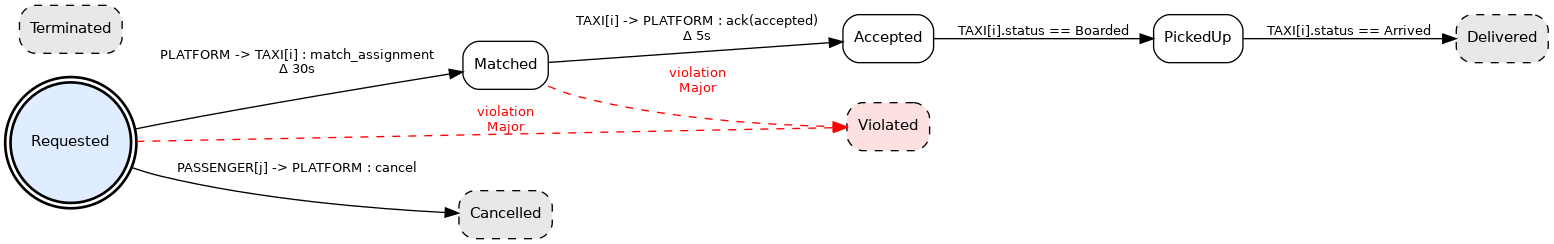
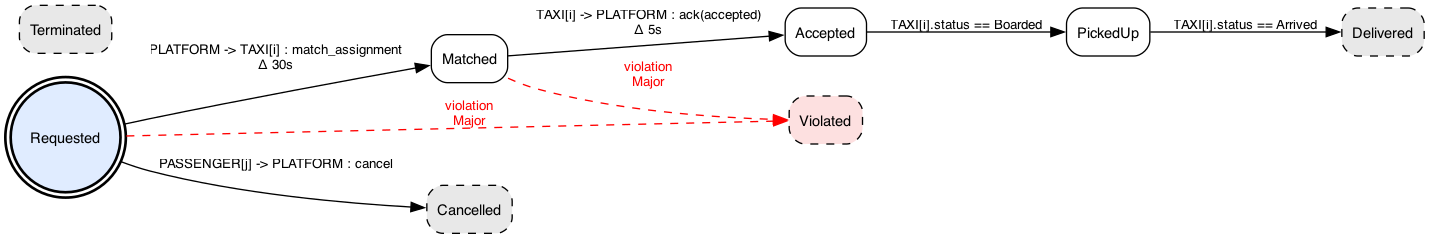
Hands-on audit: cross-references, Course B setup, index, Courses C and D (#59)
* Hands-on audit: cross-references, Course B setup, index, Courses C and D

* Course B: lifecycle figure regenerated with CADL Explorer v0.5.6 (same as the exercise repository)

---------

diff --git a/i18n/ja/docusaurus-plugin-content-docs/current/handson/mobility-sos-tutorial.md b/i18n/ja/docusaurus-plugin-content-docs/current/handson/mobility-sos-tutorial.md
@@ -75,7 +75,10 @@ pip install eclipse-sumo
 pip install -e ~/program/cadl_repo
 cadl --version
 
-# cadl-explorer：テキストブック（コース A）の第 6 章と同じ
+# cadl-explorer（テキストブック（コース A）の第 6 章でクローンしたもの）：
+# §4 で `streamlit` をこのシェルから起動できるよう、この venv にも requirements を入れる。
+# 第 6 章と同じく、上で入れた cadl はそのまま使われる。
+pip install -r ~/program/cadl-explorer/requirements.txt
 ```
 
 > `pip install -e ~/program/cadl_repo` の途中で `z3-solver` のビルドに失敗する場合は、
@@ -207,7 +210,7 @@ streamlit run app.py
 図の中で `Terminated` はどこともつながっていません。契約は `Terminated` を終端状態として宣言していますが、そこへ入る遷移を書いていないためです。`mobility_sos.cadl` を **Designer** ページで開くと、同じことが Lifecycle の警告（`State 'Terminated' cannot be reached from the initial state 'Requested'`）として表示されます。`cadl check` はこの状態でも通ります。
 
 :::info[このパターンは何度も出てきます]
-このコースでは「CADL を編集 → `cadl sim-ir` で IR を再生成 → cadl-explorer をリロード」という 3 ステップを、節目（構造を読んだ後、契約を読んだ後、コード生成後、シミュレーション後、契約改訂後）でそのつど繰り返します。
+このコースでは「CADL を編集 → `cadl sim-ir` で IR を再生成 → IR を cadl-explorer にアップロードし直す」という 3 ステップ（ブラウザでページを再読み込みすると、アップロードしたファイルは消える）を、節目（構造を読んだ後、契約を読んだ後、コード生成後、シミュレーション後、契約改訂後）でそのつど繰り返します。
 コードと図が連動して動く感触をつかむのが、このコースの主目的です。
 :::
 
@@ -251,12 +254,12 @@ python scripts/cadl_to_sumo.py
 生成されるもの：
 
 - `sumo/config/midtown.cadl.sumocfg` — `step-length` が CADL の `time_step_ms` から、
-  `end` は「`sumo/routes/midtown.rou.xml` の最後の `depart` ＋（1800 秒と `ride_time` guarantee の大きいほう）＋ 60 秒」で決まる（サンプルデータでは 3060 + 1800 + 60 = 4920）。経路ファイルがまだない場合は 3600 秒になる。§6 では `generate_sumo_routes.py` のあと、`run_sumo.py` の前にこのスクリプトを再実行するので、4920 秒になる。§8 のように `ride_time` を厳しくしても `end` は短くならない
+  `end` は「`sumo/routes/midtown.rou.xml` の最後の `depart` ＋（1800 秒と `ride_time` guarantee の大きいほう）＋ 60 秒」で決まる（サンプルデータでは 3060 + 1800 + 60 = 4920）。リポジトリには `sumo/routes/midtown.rou.xml` が同梱されているので、この最初の実行ですでに 4920 秒になる（経路ファイルがなければ 3600 秒）。§6 では `generate_sumo_routes.py` のあと、`run_sumo.py` の前にこのスクリプトを再実行するので、`end` は生成した経路に合わせて決まる。§8 のように `ride_time` を厳しくしても `end` は短くならない
 - `sumo/cadl_constraints.json` — `analyze_results.py` が読む契約条件（guarantees / deadlines / monitors）
 
 :::tip[🔍 可視化チェックポイント 2 — コード生成しても CADL ソースは変わらない]
 `cadl_to_sumo.py` は IR を読んで SUMO の設定ファイルを書き出すだけで、`cadl/mobility_sos.cadl` の `lifecycle:` / `monitors:` には触れません（§3 のときと 1 バイトも変わりません）。
-ここで cadl-explorer をリロードしても、§4 と同じ図が出るだけのはずです。
+ここで `cadl/mobility_sos.ir.json` を cadl-explorer にアップロードし直しても、§4 と同じ図が出るだけのはずです。
 
 「コード生成は仕様を書き換えない」というこの性質があるおかげで、CADL を仕様の唯一の出典として扱えます。
 :::
@@ -353,7 +356,7 @@ python scripts/cadl_to_sumo.py
 python scripts/analyze_results.py | grep -E "OK|VIOLATED"
 ```
 
-期待される結果（SUMO 1.28.0 では違反 12 件。違反件数と該当タクシーの並びは、乱数シードや SUMO のバージョンによって変わります。着目すべきは `waiting_time` が `OK` で `ride_time` が `VIOLATED` になる、という**内訳の形**です）：
+期待される結果（SUMO 1.28.0 では違反 12 件。実行は決定的なので、同じ SUMO の版ならそのまま再現します。別の版では、違反件数と該当タクシーの並びが変わることがあります。着目すべきは `waiting_time` が `OK` で `ride_time` が `VIOLATED` になる、という**内訳の形**です）：
 
 ```text
       [OK          ] waiting_time <= 300s  (tripinfo.waitingTime)
@@ -364,7 +367,7 @@ OK: 分析完了。
 最後の行はスクリプトの終了メッセージです。`OK` で始まるので `grep` のパターンに一致します。
 
 :::tip[🔍 可視化チェックポイント 4 — 改訂後（このコースの山場）]
-`analyze_results.py` を実行する前に、cadl-explorer をリロードしてみてください。
+作り直した `cadl/mobility_sos.ir.json`（上のコマンドで書き出し済み）を、cadl-explorer にアップロードし直してみてください。
 
 今回書き換えたのは guarantee の値（`ride_time <= 1800s` から `100s`）だけで、`lifecycle:` や `monitors:` には触れていません。
 そのため、状態機械の図そのものは §4 と同じです（状態数も遷移数も `Δ` ラベルも変化なし）。

diff --git a/docs/textbook/08-unity.md b/docs/textbook/08-unity.md
@@ -25,9 +25,10 @@ nats-server -p 4222
 ```
 
 ```
-[INFO] Starting nats-server
-[INFO] Server is ready
-[INFO] Listening for client connections on 0.0.0.0:4222
+[…] [INF] Starting nats-server
+…
+[…] [INF] Listening for client connections on 0.0.0.0:4222
+[…] [INF] Server is ready
 ```
 
 ```bash
@@ -133,7 +134,7 @@ In the Console, lines like the following should appear continuously. You can fil
 
 ![Unity in Play mode: robots on the road network in the Scene view, and the Console filtered on DELIVERY_SLA showing lifecycle events](/img/handson/unity-play-console.jpg)
 
-The screenshot was taken about 22 seconds into Play, with `DELIVERY_SLA` typed in the Console search box and the Scene tab selected: robot-2-1 (battery 15) has just been moved to `Violated` by `battery_guard`, and robot-1-1 has been assigned five seconds later. During Play the host is listed as `ContractRuntimeHost` under `DontDestroyOnLoad`; in this capture the scene part of the Hierarchy still shows the object of step 6.3 as "New Game Object", although the Inspector shows its name.
+The screenshot was taken about 22 seconds into Play, with `DELIVERY_SLA` typed in the Console search box and the Scene tab selected: robot-2-1 (battery 15) has just been moved to `Violated` by `battery_guard`, and robot-1-1 has been assigned five seconds later. During Play the host is listed as `ContractRuntimeHost` under `DontDestroyOnLoad`; in this capture the scene part of the Hierarchy still shows the object added in "Add ContractRuntimeHost" (Section 8.2) as "New Game Object", although the Inspector shows its name.
 
 A closer look at the road during the same run, with the five robots on their way:
 
@@ -154,7 +155,7 @@ The Game view during Play: the camera follows robot `m1`, and the small picture 
 [lifecycle DELIVERY_SLA/robot-1-1 Delivering -> Completed (complete, event) @ 46361ms]
 ```
 
-Each robot's contract moves only on that robot's own events. The arbitrator hands out one delivery about every 5 seconds, so the robots reach `Assigned` one after another (in this run at about 5, 11, 16, 22 and 27 seconds). Note the 700 to 800 ms between `assign` and `accept` for `robot-1-1`: that is the `Assigned Dwell Ms` set in 6.4. `robot-2-1`, with battery 15, is caught by `battery_guard` in the same frame as its `assign`.
+Each robot's contract moves only on that robot's own events. The arbitrator hands out one delivery about every 5 seconds, so the robots reach `Assigned` one after another (in this run at about 5, 11, 16, 22 and 27 seconds). Note the 700 to 800 ms between `assign` and `accept` for `robot-1-1`: that is the `Assigned Dwell Ms` set in "Add PilotContractBridge to every robot" (Section 8.2). `robot-2-1`, with battery 15, is caught by `battery_guard` in the same frame as its `assign`.
 
 ## 8.4 The parts in the scene
 
@@ -219,7 +220,7 @@ Confirm all of these:
 | Console silent — no contract events at all | NATS or arbitrator not running. Check that Terminal 1 shows `Server is ready` and Terminal 2 shows the `[Config] … taskArbitration.enabled=true …` line. |
 | No delivery is ever assigned (no `WON delivery` in the Console) | The arbitrator probably did not load its config. Restart it passing the **absolute path** of `cadl_config.json` via `-config`, and confirm `taskArbitration.enabled=true` in its startup output (the shipped config already has it `true`). |
 | Compile error in Console after Play: `The name 'CADL.SosDsl.Demo.ContractRuntimeHost' could not be found` | Generated/Runtime files not picked up. Re-run the e2e script. Or in Unity, `Assets ▸ Reimport All`. |
-| **All robots stay `Proposed`, then get `Violated` by `deadline_watch` (~5 min)** | The arbitrator carried over state from the previous Play (no deliveries offered). Stop Play, **restart the arbitrator** (and NATS if unsure), then replay. It must be restarted **before every Play** (see the note in 6.1). |
+| **All robots stay `Proposed`, then get `Violated` by `deadline_watch` (~5 min)** | The arbitrator carried over state from the previous Play (no deliveries offered). Stop Play, **restart the arbitrator** (and NATS if unsure), then replay. It must be restarted **before every Play** (see the note "Restart the arbitrator before every Play" in Section 8.2). |
 | **Compile error `... already contains a definition for ...` with paths under `Generated/Generated/…` or `Runtime/Runtime/…`** | The generated tree was copied nested (duplicated). Delete `Assets/Scripts/SoSDsl/Generated/Generated` and `Runtime/Runtime` (the current e2e script self-heals this). |
 | **The battery=15 robot also completes instead of violating** | The bridge fired `assign` and `accept` in the same frame, so the contract never dwells in `Assigned` long enough for the periodic `battery_guard` to sample. The shipped `PilotContractBridge` fixes this via `assignedDwellMs` (default 700 ms); if you replace the bridge, keep it above the monitor period. |
 

diff --git a/docs/handson/mobility-sos-tutorial.md b/docs/handson/mobility-sos-tutorial.md
@@ -84,7 +84,10 @@ pip install eclipse-sumo
 pip install -e ~/program/cadl_repo
 cadl --version
 
-# cadl-explorer: same as Chapter 6 of the Textbook (Course A)
+# cadl-explorer (cloned in Chapter 6 of the Textbook, Course A): install its
+# requirements into this venv too, so that `streamlit` runs in this shell (§4).
+# It keeps the cadl installed above, as in Chapter 6.
+pip install -r ~/program/cadl-explorer/requirements.txt
 ```
 
 > If `z3-solver` fails to build during `pip install -e ~/program/cadl_repo`, fall back
@@ -224,7 +227,7 @@ You should see something like:
 `Terminated` stands alone in the diagram: the contract declares it as a terminal state, but no transition leads to it. If you open `mobility_sos.cadl` on the **Designer** page, the same fact is reported as a Lifecycle warning (`State 'Terminated' cannot be reached from the initial state 'Requested'`). `cadl check` passes regardless.
 
 :::info[This pattern repeats throughout the tutorial]
-You will run **edit CADL → `cadl sim-ir` → reload cadl-explorer** at every milestone:
+You will run **edit CADL → `cadl sim-ir` → upload the IR to cadl-explorer again** at every milestone (reloading the browser page clears the uploaded file):
 after reading the structure, after reading the contract, after codegen, after the simulation, after revising the contract.
 The whole point of the tutorial is to internalize that **the picture changes in lockstep with the code**.
 :::
@@ -270,7 +273,7 @@ Example output (excerpt; the scripts print their progress messages in Japanese):
 Produces:
 
 - `sumo/config/midtown.cadl.sumocfg` — `step-length` from
-  `environment.time_step_ms`, `end` = the last `depart` in `sumo/routes/midtown.rou.xml` + the larger of 1800 s and the `ride_time` guarantee + 60 s (3060 + 1800 + 60 = 4920 with the sample data). If the route file does not exist yet, `end` is 3600 s; §6 re-runs this script after `generate_sumo_routes.py`, before `run_sumo.py`, which gives 4920 s. A tighter `ride_time` (as in §8) does not shorten `end`.
+  `environment.time_step_ms`, `end` = the last `depart` in `sumo/routes/midtown.rou.xml` + the larger of 1800 s and the `ride_time` guarantee + 60 s (3060 + 1800 + 60 = 4920 with the sample data). The repository ships `sumo/routes/midtown.rou.xml`, so this first run already gives 4920 s; without the route file `end` would be 3600 s. §6 re-runs this script after `generate_sumo_routes.py`, before `run_sumo.py`, so `end` follows the routes you generate. A tighter `ride_time` (as in §8) does not shorten `end`.
 - `sumo/cadl_constraints.json` — the contract conditions (guarantees / deadlines / monitors) that
   `analyze_results.py` reads.
 
@@ -278,7 +281,7 @@ Produces:
 `cadl_to_sumo.py` only **reads** the IR and **writes** SUMO config files; it never
 modifies `cadl/mobility_sos.cadl`. The `lifecycle:` and `monitors:` blocks are
 byte-for-byte identical to what they were in §3.
-Reload cadl-explorer now and you should see **the exact same picture** as in §4.
+Upload `cadl/mobility_sos.ir.json` to cadl-explorer again now and you should see **the exact same picture** as in §4.
 
 That invariance is what lets us treat CADL as the **single source of truth**:
 target-specific generators consume the spec without mutating it.
@@ -377,7 +380,7 @@ python scripts/cadl_to_sumo.py
 python scripts/analyze_results.py | grep -E "OK|VIOLATED"
 ```
 
-Output (12 violations with SUMO 1.28.0; the violation count and the taxis listed vary with the random seed and your SUMO
+Output (12 violations with SUMO 1.28.0; the run is deterministic, so the same SUMO version reproduces it exactly; the violation count and the taxis listed can differ with another SUMO
 version — what matters is the *pattern*: `waiting_time` stays `OK` while `ride_time` turns
 `VIOLATED`):
 
@@ -390,7 +393,7 @@ OK: 分析完了。
 The last line is the script's closing message ("analysis complete"); it matches the `grep` pattern because it starts with `OK`.
 
 :::tip[🔍 Visualization Checkpoint 4 — Post-revision (★ highlight)]
-Reload cadl-explorer **before** running `analyze_results.py`.
+Upload the regenerated `cadl/mobility_sos.ir.json` to cadl-explorer again (the commands above already wrote it).
 
 The change you just made touches only a guarantee value (`ride_time <= 1800s` → `100s`).
 You did not touch `lifecycle:` or `monitors:`, so **the state-machine diagram itself is

diff --git a/i18n/ja/docusaurus-plugin-content-docs/current/textbook/05-norms.md b/i18n/ja/docusaurus-plugin-content-docs/current/textbook/05-norms.md
@@ -191,9 +191,9 @@ monitors[0].id    : battery_guard
 
 | 症状 | 原因 |
 | --- | --- |
-| `cadl check` は通るが，IR が `"lifecycle": null` になり，第 6 章で状態が表示されない | `lifecycle:` ブロックのインデントが違い，契約の一部として読まれていない。`lifecycle:` は `assume:` / `guarantee:` と同じレベルに置き，`states:` はその 1 段下に書く。チェッカはこの誤りを報告しない。 |
+| `cadl check` は通るが、IR が `"lifecycle": null` になり、第 6 章で状態が表示されない | `lifecycle:` ブロックのインデントが違い、契約の一部として読まれていない。`lifecycle:` は `assume:` / `guarantee:` と同じレベルに置き、`states:` はその 1 段下に書く。チェッカはインデントの誤りそのものは報告しない。モニターがライフサイクルの状態を名指ししているときに限り、契約にライフサイクルがないことが M-3 のエラーとして間接的に報告される。 |
 | `on:` がブール値として解釈されてしまう | YAML 1.1 の癖。CADL のパーサは内部に `_yaml_on_key` の回避策を持っているので同梱の例は正しく動く。自分でパーサを書くときは注意。 |
-| `monitor.rule` が常に false | `state == Assigned` の右辺は **裸の識別子** で OK（CADL の慣習）。`"Assigned"` のように quote すると意味が変わる。 |
+| `monitor.rule` が常に false | `state == Assigned` の右辺は **裸の識別子** で OK（CADL の慣習）。二重引用符で `\"Assigned\"` と書いても意味は同じ。単引用符（`'Assigned'`）はルールの文法にないので、`cadl check` が「is not a valid rule (Appendix E.3) and is kept as text」と警告し、モニターは発火しない。 |
 
 ## 5.7 おさらい
 
@@ -209,7 +209,7 @@ monitors[0].id    : battery_guard
 
 1. `v1` → `v2` をコピー。
 2. `lifecycle.states`、`lifecycle.initial`、`lifecycle.terminal` と 4 つの遷移（`assign`、`accept`、`start_delivery`、`complete`）を追加。
-3. `accept` に `deadline: 5s` と `on_violation.transition: Violated` を設定（値は移動先の状態名）。あわせて、5.3 節と同じく `sos:` の下に `extensions: [sos-dsl: 0.1]` を宣言する。
+3. `accept` に `deadline: 5s` と `on_violation.transition: Violated` を設定（値は移動先の状態名）。あわせて、5.3 節と同じく `sos:` の下に `extensions: [sos-dsl: 0.1]` を宣言し、5.3 節の `monitors:` ブロック（`battery_guard`）も写す。第 7 章はこの演習の v2 を動かし、このモニターがある前提で結果を説明する。
 4. `cadl check my_delivery_v2.cadl` を実行し、続けて `cadl sim-ir my_delivery_v2.cadl --format json | grep -n -A3 '"lifecycle"'` を実行（`"lifecycle"` キーは IR のかなり後ろにある。5.3 節のファイルでは 90 行目、第 4 章でアクターや契約を追加していればさらに後ろになるので、`head` では途中で切れて見えない）。
 5. 出力で `"lifecycle"` が `null` でなくなったことを確認：行が `"lifecycle": {` になり、続いて `"states": [` と最初の状態名が並ぶ。演習 4.2 で `MAINTENANCE_SLA` を追加している場合、`grep` はその契約の分も出力し、そちらは `"lifecycle": null` のままになる。lifecycle を持つのは `DELIVERY_SLA` だけなので、これで正しい。
 
@@ -266,6 +266,6 @@ monitors[0].id    : battery_guard
 
 **次の授業（第 6 章）に持参**:
 
-- `my_delivery_v2.cadl`（最低限 2.1〜2.3 を完了）
+- `my_delivery_v2.cadl`（最低限 演習 5.1〜5.3 を完了）
 - IR JSON スナップショット `my_delivery_v2.ir.json`（`cadl sim-ir … --format json > my_delivery_v2.ir.json`）
-- （任意）2.4 に取り組んだなら `my_delivery_v2_with_safety.cadl`
+- （任意）演習 5.4 に取り組んだなら `my_delivery_v2_with_safety.cadl`

diff --git a/docs/textbook/05-norms.md b/docs/textbook/05-norms.md
@@ -191,9 +191,9 @@ monitors[0].id    : battery_guard
 
 | Symptom | Why |
 | --- | --- |
-| `cadl check` passes, but the IR has `"lifecycle": null` and Chapter 6 shows no states | The `lifecycle:` block has wrong indentation, so it is not read as part of the contract. `lifecycle:` must sit at the same level as `assume:` / `guarantee:`, with `states:` one level below it. The checker does not report this. |
+| `cadl check` passes, but the IR has `"lifecycle": null` and Chapter 6 shows no states | The `lifecycle:` block has wrong indentation, so it is not read as part of the contract. `lifecycle:` must sit at the same level as `assume:` / `guarantee:`, with `states:` one level below it. The checker does not report the indentation itself; it reports it only indirectly, when a monitor names a lifecycle state (an M-3 error, because the contract then has no lifecycle). |
 | Parser silently treats `on:` as a boolean | YAML 1.1 quirk; the example file works because the parser has a workaround (`_yaml_on_key`). If you're writing your own parser, watch for this. |
-| `monitor.rule` "always false" | The right-hand side of `state == Assigned` is a **bare identifier** by CADL convention. Quoting `"Assigned"` changes the meaning. |
+| `monitor.rule` "always false" | The right-hand side of `state == Assigned` is a **bare identifier** by CADL convention; `\"Assigned\"` in double quotes means the same. Single quotes (`'Assigned'`) are not part of the rule grammar: `cadl check` warns that the rule "is not a valid rule (Appendix E.3) and is kept as text", and the monitor never fires. |
 
 ## 5.7 Recap
 
@@ -209,7 +209,7 @@ The same file now describes both the structure (Chapter 4) and the rules (Chapte
 
 1. Copy `v1` → `v2`.
 2. Add `lifecycle.states`, `lifecycle.initial`, `lifecycle.terminal`, and 4 transitions (`assign`, `accept`, `start_delivery`, `complete`).
-3. On `accept`, set `deadline: 5s` and `on_violation.transition: Violated` (the value is the target state). Also declare `extensions: [sos-dsl: 0.1]` under `sos:`, as in Section 5.3.
+3. On `accept`, set `deadline: 5s` and `on_violation.transition: Violated` (the value is the target state). Also declare `extensions: [sos-dsl: 0.1]` under `sos:`, and copy the `monitors:` block (`battery_guard`) of Section 5.3: Chapter 7 runs the v2 of this exercise and expects that monitor.
 4. Run `cadl check my_delivery_v2.cadl`, then `cadl sim-ir my_delivery_v2.cadl --format json | grep -n -A3 '"lifecycle"'` (the `"lifecycle"` key sits well past the first screen of the IR — line 90 for the file of Section 5.3, later if you added actors or contracts in Chapter 4 — so `head` would cut it off).
 5. Confirm in the output that `"lifecycle"` is no longer `null`: the line now reads `"lifecycle": {`, followed by `"states": [` and the first state names. If you added `MAINTENANCE_SLA` in Exercise 4.2, `grep` prints a second match for that contract, which still reads `"lifecycle": null`; that is expected, because only `DELIVERY_SLA` has a lifecycle.
 
@@ -266,6 +266,6 @@ The same file now describes both the structure (Chapter 4) and the rules (Chapte
 
 **Bring to the next session (Chapter 6)**:
 
-- `my_delivery_v2.cadl` (with at minimum exercises 2.1–5.3 done).
+- `my_delivery_v2.cadl` (with at minimum Exercises 5.1–5.3 done).
 - The IR JSON snapshot saved as `my_delivery_v2.ir.json` (run `cadl sim-ir … --format json > my_delivery_v2.ir.json`).
-- (Optional) `my_delivery_v2_with_safety.cadl` if you tackled 2.4.
+- (Optional) `my_delivery_v2_with_safety.cadl` if you tackled Exercise 5.4.

diff --git a/i18n/ja/docusaurus-plugin-content-docs/current/handson/academic-background.md b/i18n/ja/docusaurus-plugin-content-docs/current/handson/academic-background.md
@@ -70,10 +70,10 @@ title: "なぜ SoS-DSL なのか？ — 学習者のための背景"
 |---|---|---|
 | Directed（統率型） | 強いトップダウンで集中管理 | 防空ネットワーク |
 | Acknowledged（認知型） | SoS 全体の指揮権が定まっていて、各構成システムは所有権を保つ | 国際宇宙ミッション、コース A のロボット配送（CADL ファイル上のモデル化として。上の説明を参照）、コース B のタクシー配車 |
-| Collaborative（協調型） | 単一の指揮権はなく、共通の取り決め（プロトコル・規約）を介して自発的に協力 | インターネット、食事配達のような peer-to-peer 寄りの合意 |
+| Collaborative（協調型） | 単一の指揮権はなく、共通の取り決め（プロトコル・規約）を介して自発的に協力 | インターネット、食事配達のような peer-to-peer 寄りの合意、コース D のロボットの街（3 社が街の規則を取り決める） |
 | Virtual（仮想型） | 中央管理も合意された目的もなく、調整は自然発生的に成立 | World Wide Web、災害発生直後の避難所群（指揮系統が立ち上がる前） |
 
-コース A と B はどちらも `type: Acknowledged` と宣言しており、ドメインだけが差し替わります。
+コース A と B はどちらも `type: Acknowledged` と宣言しており、ドメインだけが差し替わります。コース D の街は `type: Collaborative` です。
 コース C ではここから一歩進み、自分で題材を選んで類型を判定するところから始めます。
 
 ---

diff --git a/i18n/ja/docusaurus-plugin-content-docs/current/handson/own-sos.md b/i18n/ja/docusaurus-plugin-content-docs/current/handson/own-sos.md
@@ -13,7 +13,7 @@ title: "コース C — 新しい SoS の end-to-end モデリング"
 1. アクターと契約を同定する（テンプレートはありません）。
 2. SoS の類型（Maier / ISO/IEC/IEEE 21841）のどれに当たるかを判定し、宣言する `type:` の理由を説明する。
 3. `lifecycle:` と `monitors:` をゼロから書き、`cadl check` を通し、cadl-explorer で確認する。
-4. 自分で選んだランタイムで仕様を動かす。標準の選択肢は、IR JSON からライフサイクルを再生する軽量な Python の離散事象ハーネス（例：SimPy）で、Unity は不要です。ハーネスは提供されません。これを書くことも課題の一部です。
+4. 自分で選んだランタイムで仕様を動かす。標準の選択肢は、IR JSON（`cadl sim-ir --format json`）からライフサイクルを再生する軽量な Python の離散事象ハーネス（例：SimPy）で、Unity は不要です。ハーネスは提供されません。これを書くことも課題の一部です。
 5. パラメータスイープを行い、比較レポートを書く（[テキストブック第 9 章](../textbook/09-improve.md)の演習 9.4 の 3 ページ形式がそのまま使えます）。
 
 コース C に必要なのは公開リポジトリ（`cadl`、`cadl-explorer`）だけです。

diff --git a/docs/handson/academic-background.md b/docs/handson/academic-background.md
@@ -72,11 +72,11 @@ Even within the umbrella term "SoS", systems differ by how strong the central au
 |---|---|---|
 | **Directed** | Strong, top-down | Air-defense network |
 | **Acknowledged** | SoS-level authority recognised, but components keep ownership | International space missions, **Course A's robot delivery** (as modelled in its CADL files; see the note above), **Course B's taxi dispatch** |
-| **Collaborative** | No single authority; participants cooperate via shared agreements (protocols, conventions) | The Internet, peer-to-peer-leaning food-delivery cooperatives |
+| **Collaborative** | No single authority; participants cooperate via shared agreements (protocols, conventions) | The Internet, peer-to-peer-leaning food-delivery cooperatives, **Course D's robot town** (three companies agree on the town's rules) |
 | **Virtual** | No central management, no agreed common goal; coordination is emergent | The World Wide Web; the first hours of a major disaster, before any incident command has formed |
 
 > 💡 **Course A and B are both declared `type: Acknowledged`; only the domain changes.**
-> Course C asks you to pick your own domain and classify it yourself.
+> Course D's town is declared `type: Collaborative`. Course C asks you to pick your own domain and classify it yourself.
 
 ---
 

diff --git a/docs/handson/own-sos.md b/docs/handson/own-sos.md
@@ -13,7 +13,7 @@ Pick a domain other than robot delivery — recommended: **food delivery (modell
 1. Identify actors and contracts (no template is provided).
 2. Decide which SoS type (Maier / ISO/IEC/IEEE 21841) the domain belongs to, and justify the `type:` you declare.
 3. Write `lifecycle:` and `monitors:` from scratch, pass `cadl check`, and inspect the result in cadl-explorer.
-4. Exercise the specification with a runtime of your choice. The suggested default is a lightweight Python discrete-event harness (for example SimPy) that replays the lifecycle from the IR JSON; Unity is not required. No harness is provided — writing it is part of the task.
+4. Exercise the specification with a runtime of your choice. The suggested default is a lightweight Python discrete-event harness (for example SimPy) that replays the lifecycle from the IR JSON (`cadl sim-ir --format json`); Unity is not required. No harness is provided — writing it is part of the task.
 5. Sweep parameters and write a comparison report (the 3-page format of Exercise 9.4 in [Chapter 9 of the textbook](../textbook/09-improve.md) works well).
 
 Course C needs only the public repositories (`cadl`, `cadl-explorer`).

diff --git a/docs/handson/index.md b/docs/handson/index.md
@@ -93,7 +93,7 @@ Course A is a self-contained **Textbook** with its own navigation tab. Its Chapt
 | **Domain** | Anything you choose (food delivery, emergency response, power grid…) |
 | **Target runtime** | Your choice. The suggested default is a lightweight Python discrete-event harness such as SimPy; Unity is not required |
 | **Time** | A few hours to a few weeks (a self-directed mini-project) |
-| **Prerequisite** | Course A + B |
+| **Prerequisite** | Course A, plus Course B or D |
 | **You will learn** | Designing actors / contracts / lifecycle / monitors **on your own** for a new domain, then choosing your own runtime |
 
 Course C is deliberately open-ended: the brief is an outline, not a step-by-step tutorial. → [Course C — Your own SoS](own-sos.md)
